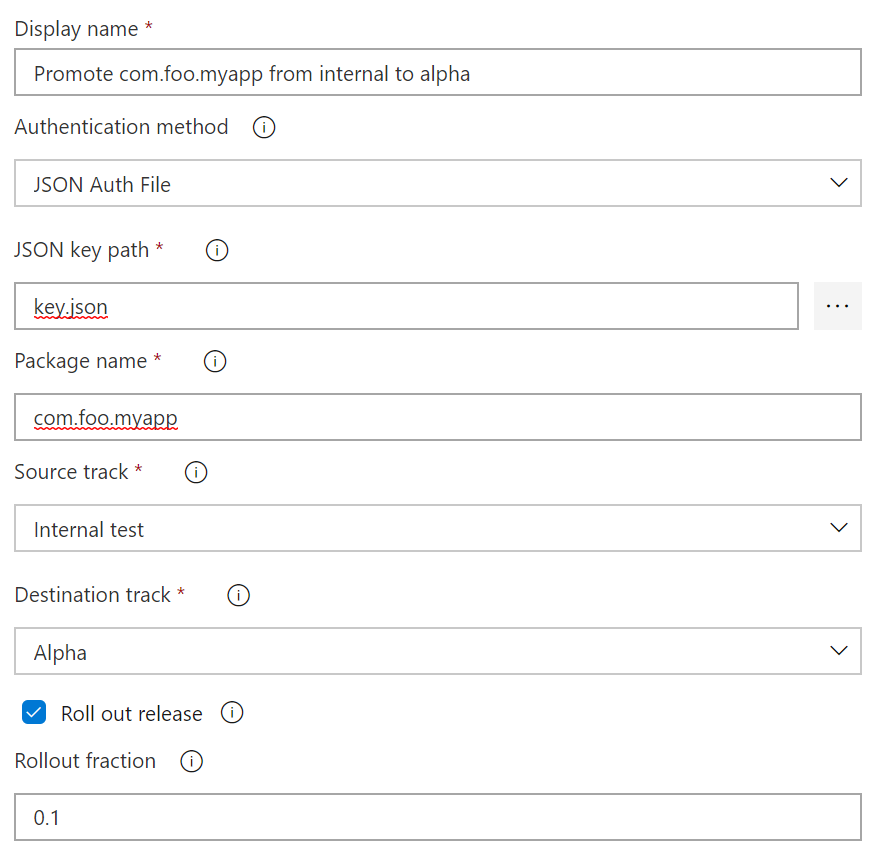
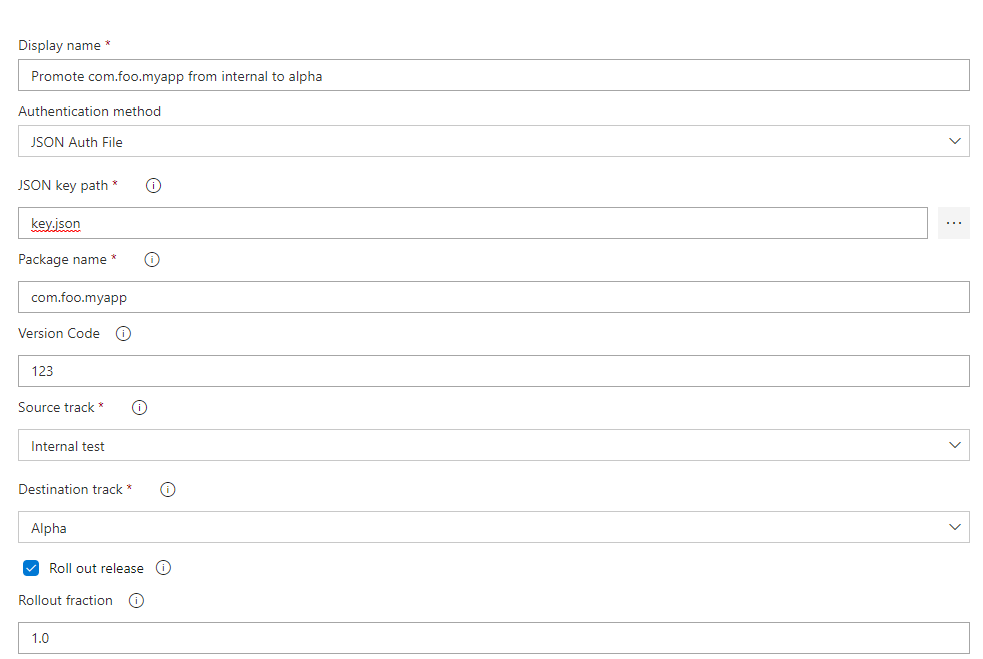
Updated ReadMe to reflect new versionCode Option

diff --git a/baseREADME.md b/baseREADME.md
@@ -170,6 +170,8 @@ Allows you to promote a previously released APK from one track to another (e.g. 
 
 2. **Package Name** *(String, Required)* - The unique package identifier (e.g. `com.foo.myapp`) that you wish to promote.
 
+3. **Version Code** *(String, Optional)* - The version code of the apk (e.g. 123) that you whish to promote. If no version code is given, the latest version on the specified track will be promoted.
+
 3. **Source Track** *(Required, Required)* - The track you wish to promote your app from (e.g. `alpha`). This assumes that you previously released an update to this track, potentially using the [`Google Play - Release`](#google-play---release) task.
 
 4. **Destination Track** *(Required, Required)* - The track you wish to promote your app to (e.g. `production`).
